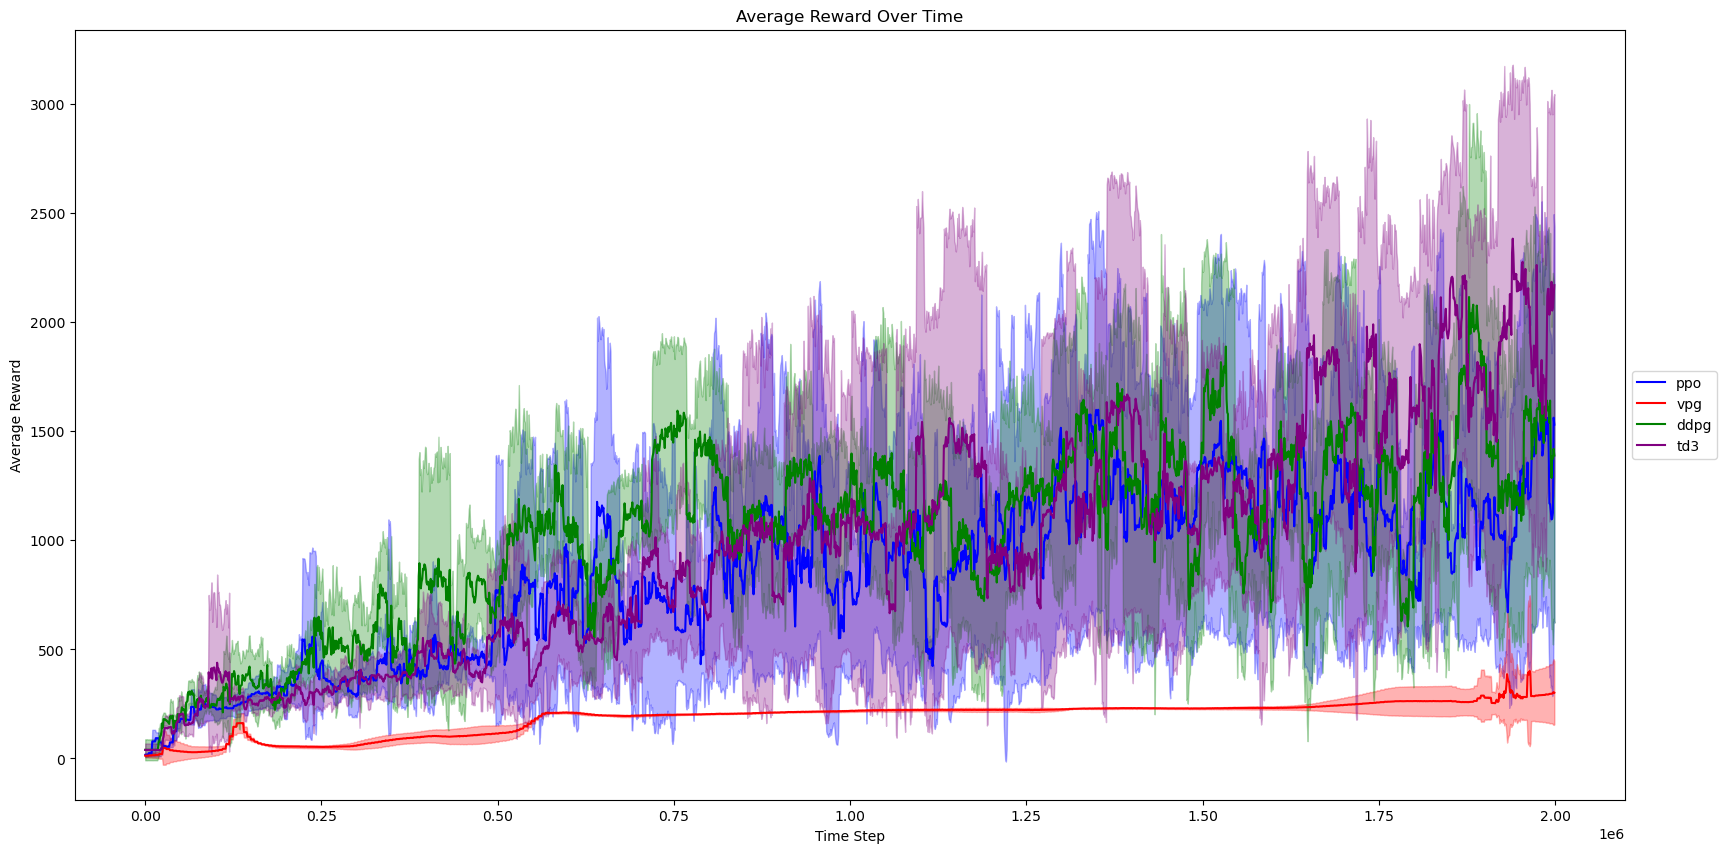
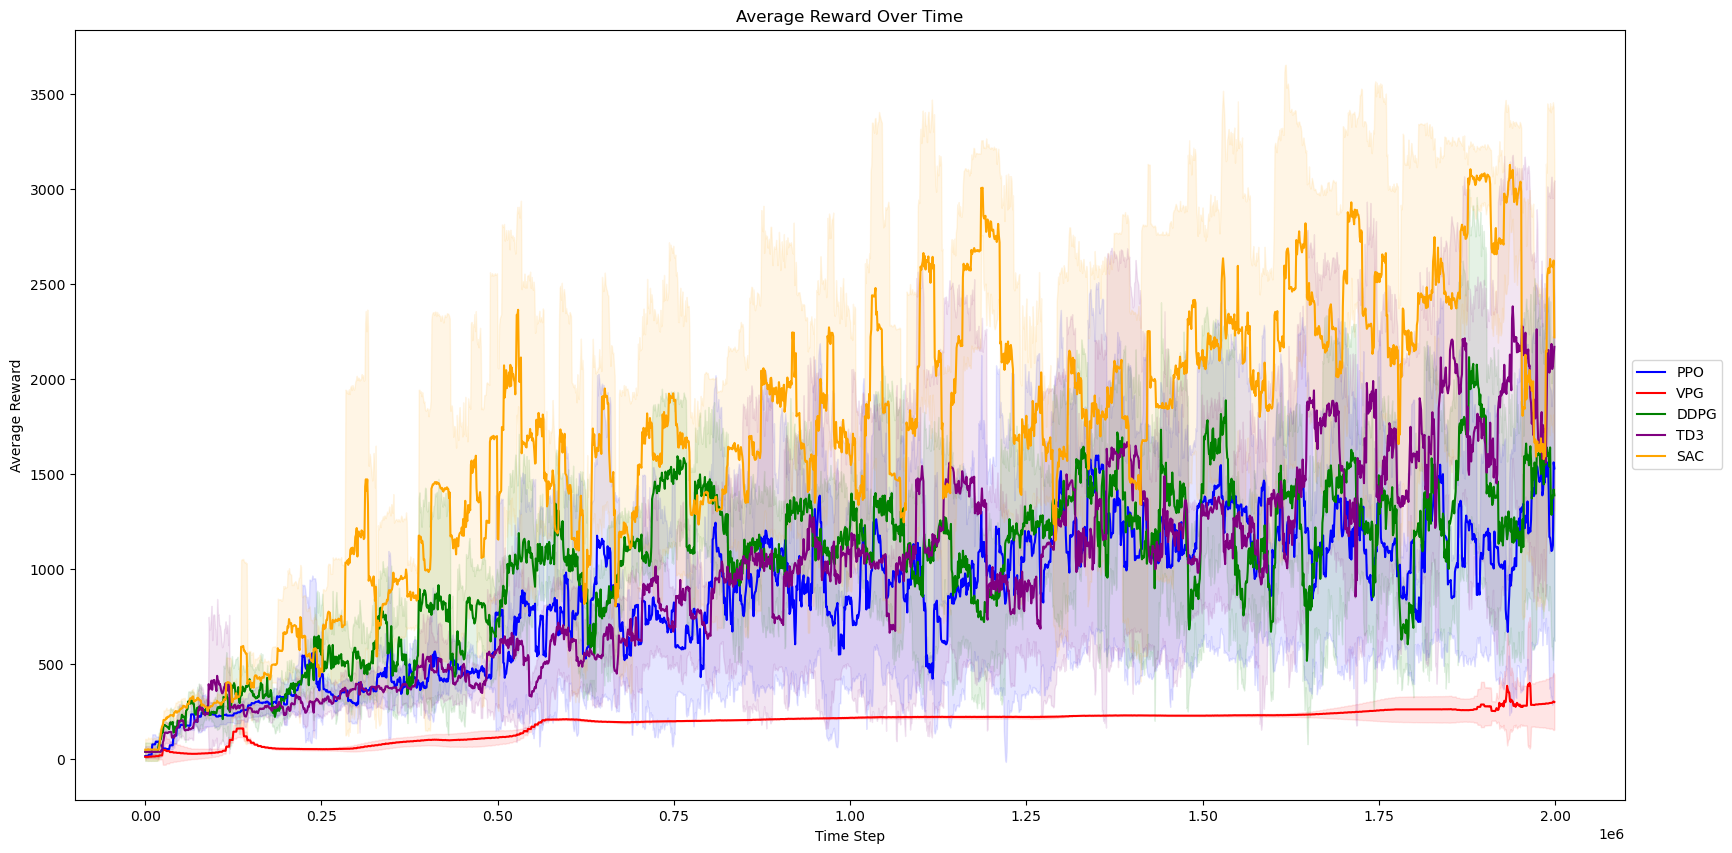
done with the graphinggit add record_agent.py

diff --git a/utils/plotting.py b/utils/plotting.py
@@ -2,7 +2,7 @@ import matplotlib
 import matplotlib.pyplot as plt
 import numpy as np
 from torch import ge
-from .json_utils import get_json_data
+from json_utils import get_json_data
 
 def plot_rewards(rewards, location, names=None, time_step=None):
     """
@@ -120,6 +120,7 @@ def plot_best_model_rewards(json_location, save_location, model_names, time_step
             for m in loaded_json:
                 names.append(m['model_name'])
                 rewards.append(m['list_of_rewards'])
+
             mean_rewards = np.mean(rewards, axis=0)
             std_rewards = np.std(rewards, axis=0)
 
@@ -127,12 +128,12 @@ def plot_best_model_rewards(json_location, save_location, model_names, time_step
                 x = range(0, len(mean_rewards)*time_step, time_step)
                 plt.plot(x, mean_rewards, color=matplotlib_colors[i], label=model_names[i])
                 plt.fill_between(x=x, y1=mean_rewards-std_rewards, y2=mean_rewards+std_rewards, 
-                    alpha=0.3, color=matplotlib_colors[i])
+                    alpha=0.1, color=matplotlib_colors[i])
             else: 
                 x = range(len(mean_rewards))
                 plt.plot(x, mean_rewards, color=matplotlib_colors[i], label=model_names[i])
                 plt.fill_between(x=x, y1=mean_rewards-std_rewards, y2=mean_rewards+std_rewards, 
-                    alpha=0.3, color=matplotlib_colors[i])
+                    alpha=0.1, color=matplotlib_colors[i])
 
         plt.ylabel("Average Reward")
         plt.xlabel("Time Step")
@@ -161,12 +162,12 @@ def plot_best_model_rewards(json_location, save_location, model_names, time_step
                 x = range(0, len(mean_cumulative_rewards)*time_step, time_step)
                 plt.plot(x, mean_cumulative_rewards, color=matplotlib_colors[j], label=model_names[j])
                 plt.fill_between(x=x, y1=mean_cumulative_rewards-std_cumulative_rewards, 
-                    y2=mean_cumulative_rewards+std_cumulative_rewards, alpha=0.3, color=matplotlib_colors[j])
+                    y2=mean_cumulative_rewards+std_cumulative_rewards, alpha=0.1, color=matplotlib_colors[j])
             else: 
                 x = range(len(mean_cumulative_rewards))
                 plt.plot(x, mean_cumulative_rewards, color=matplotlib_colors[j], label=model_names[j])
                 plt.fill_between(x=x, y1=mean_cumulative_rewards-std_cumulative_rewards, 
-                    y2=mean_cumulative_rewards+std_cumulative_rewards, alpha=0.3, color=matplotlib_colors[j])
+                    y2=mean_cumulative_rewards+std_cumulative_rewards, alpha=0.1, color=matplotlib_colors[j])
 
         plt.ylabel("Cumulative Reward")
         plt.xlabel("Time Step")
@@ -234,18 +235,24 @@ def plot_best_model_rewards(json_location, save_location, model_names, time_step
 
 
 if __name__ == '__main__':
-    loaded_json = get_json_data("openai_sac_agent/results/log.json")
+    # loaded_json = get_json_data("openai_sac_agent/results/log.json")
 
-    reward_lists, names = [], []
-    for m in loaded_json:
-        names.append(m['model_name'])
-        reward_lists.append(m['list_of_rewards'])
+    # reward_lists, names = [], []
+    # for m in loaded_json:
+    #     names.append(m['model_name'])
+    #     reward_lists.append(m['list_of_rewards'])
 
-    save_location = "openai_sac_agent/results/"
+    # save_location = "openai_sac_agent/results/"
 
-    plot_rewards(reward_lists, save_location, names)
+    # plot_rewards(reward_lists, save_location, names)
 
+    # json_list = ["ppo_agent/results/best_model/log_best_model.json", "vpg_agent/results/best_model/log_best_model.json",
+    #     "ddpg_agent/results/best_model/log_best_model.json", "td3_agent/results/best_model/log_best_model.json"]
+    # plot_best_model_rewards(json_list, save_location=".", model_names=['ppo', 'vpg', 'ddpg', 'td3'], 
+    #     time_step=1000) # i.e. eval freq
     json_list = ["ppo_agent/results/best_model/log_best_model.json", "vpg_agent/results/best_model/log_best_model.json",
-        "ddpg_agent/results/best_model/log_best_model.json", "td3_agent/results/best_model/log_best_model.json"]
-    plot_best_model_rewards(json_list, save_location=".", model_names=['ppo', 'vpg', 'ddpg', 'td3'], time_step=1000) # i.e. eval freq
+        "ddpg_agent/results/best_model/log_best_model.json", "td3_agent/results/best_model/log_best_model.json",
+        "openai_sac_agent/results/best_model/log_best_model.json"]
+    plot_best_model_rewards(json_list, save_location=".", model_names=['PPO', 'VPG', 'DDPG', 'TD3', 'SAC'], 
+        time_step=1000) # i.e. eval freq
     # if only one name, still input it in a list (eg. ['ppo'])

diff --git a/utils/json_utils.py b/utils/json_utils.py
@@ -1,6 +1,8 @@
 import os
 import json
 from typing import List
+import numpy as np
+from sklearn.metrics import auc
 
 
 def log_training_experiment_to_json(
@@ -45,3 +47,33 @@ def get_json_data(path_to_json: str):
         for line in f:
             json_data.append(json.loads(line))
     return json_data
+
+def clip_to_n_train_iterations_json(path_to_json_old: str, path_to_json_new: str, n: int):
+    """
+    Load information from json file, and keep only n training steps.
+    """
+    json_data = []
+    with open(path_to_json_old, "r") as f:
+        for line in f:
+            json_data.append(json.loads(line))
+
+    for run in json_data:
+        new_rewards_list = run['list_of_rewards'][0:n]
+
+        final_mean_reward = new_rewards_list[-1]
+        average_mean_reward = np.mean(new_rewards_list)
+        median_mean_reward = np.median(new_rewards_list)
+        best_mean_reward = np.max(new_rewards_list)
+        cumulative_reward = np.sum(new_rewards_list)
+        auc_mean_reward = auc(range(len(new_rewards_list)), new_rewards_list)
+
+        log_training_experiment_to_json(path_to_json_new, run['model_name'], run['hyperparameters'],
+            final_mean_reward, average_mean_reward, median_mean_reward, best_mean_reward, cumulative_reward,
+            auc_mean_reward, "", new_rewards_list)
+
+if __name__ == '__main__':
+    sac_json_old = "openai_sac_agent/results/log_extra_runs.json"
+    sac_json_new = "openai_sac_agent/results/log_extra_runs_clipped.json"
+    n_iterations = int(2_000_000/1000)
+
+    clip_to_n_train_iterations_json(sac_json_old, sac_json_new, n_iterations)

diff --git a/record_agent.py b/record_agent.py
@@ -11,12 +11,8 @@ import torch
 import numpy as np
 from sklearn.metrics import auc
 
-
-from utils.json_utils import log_training_experiment_to_json
-from utils.plotting import plot_rewards
 from utils.logging_utils import start_logging
 from utils.environment import get_environment
-from utils.training import train_agent
 
 
 def record_trained_agent(
@@ -49,8 +45,6 @@ def record_trained_agent(
             agent.update(curr_obs, action, reward, next_obs, done, timestep)
             curr_obs = next_obs
             timestep += 1
-
-
 
 if __name__ == "__main__":
     # Parse command line arguments
@@ -101,11 +95,12 @@ if __name__ == "__main__":
     logger = start_logging()
     # Load the agent and try to load hyperparameters
     agent_module = importlib.import_module(args.group + ".agent")
-    agent = agent_module.Agent(env_specs)
+    hyperparameter_module = importlib.import_module(args.group + ".best_hyperparameters")
+    params = hyperparameter_module.params
+    agent_pretrained = agent_module.Agent(env_specs, **params)
 
     # if model provided, we're recording the trained model
     if args.load != "None":
-        agent_pretrained = deepcopy(agent)
         agent_pretrained.load_weights(os.getcwd(), args.load)
         
         record_trained_agent(
@@ -114,6 +109,6 @@ if __name__ == "__main__":
             env_eval,
             total_timesteps
         )
-        
+
     else:
         print("PROVIDE --load ARGUMENT")
